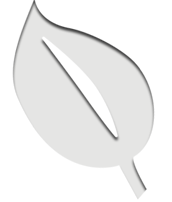
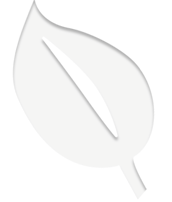
Animation subtlety tweaks. Use opacity in the leaf image instead of the DOM so when leaves fade in, their 'imprint' doesn't change opacity before they've landed. Also tweak wording.

diff --git a/stylesheets/exercises-package/stacks.css b/stylesheets/exercises-package/stacks.css
@@ -180,16 +180,6 @@
     width: 40px;
     height: 40px;
     margin-right: 20px;
-    opacity: 0.3;
-    -moz-opacity: 0.3;
-    filter:alpha(opacity=30);
-}
-
-.current-card .leaves .leaf:hover,
-.current-card .leaves .leaf.earned {
-    opacity: 1.0;
-    -moz-opacity: 1.0;
-    filter:alpha(opacity=100);
 }
 
 .stack .leaves .leaf {
@@ -223,7 +213,7 @@
 .leaves .leaf.earned .full-leaf {
     background: url(/images/power-mode/card-leaf-full-large.png) no-repeat;
     background-size: 40px 40px;
-    -webkit-transform: scale(10);
+    -webkit-transform: scale(8);
     opacity: 0;
     -moz-opacity: 0;
     filter:alpha(opacity=0);
@@ -236,8 +226,8 @@
 }
 
 @-webkit-keyframes fly-in-leaf {
-    0% { -webkit-transform: scale(10); opacity: 0; }
-    66% { -webkit-transform: scale(1); opacity: 0.3; }
+    0% { -webkit-transform: scale(8); opacity: 0; }
+    66% { -webkit-transform: scale(1); opacity: 0.17; }
     100% { -webkit-transform: scale(1); opacity: 1.0; }
 }
 .leaves .leaf.earned .full-leaf.animated {
